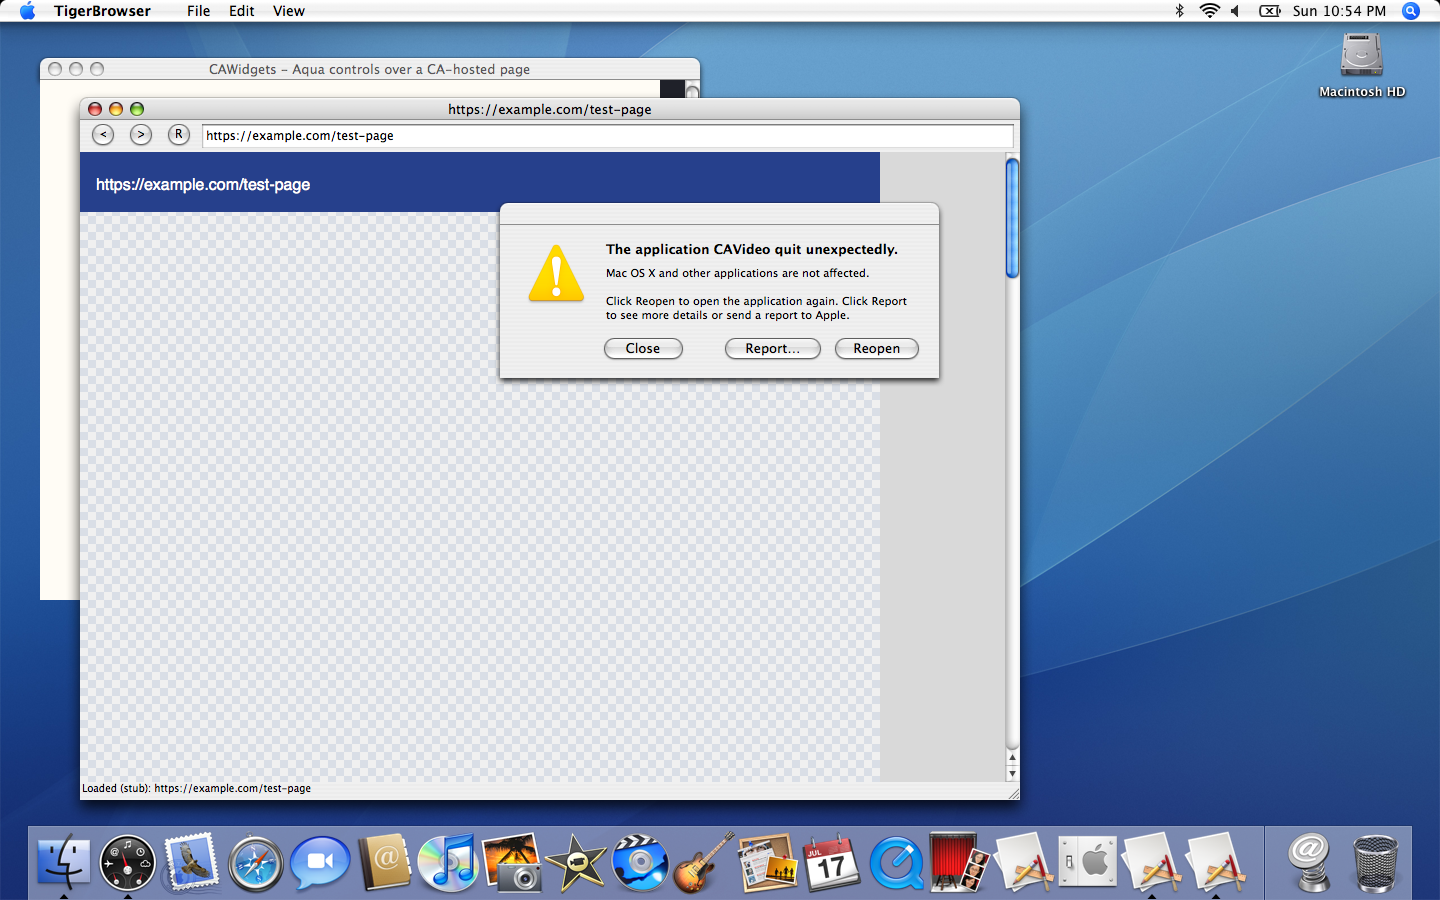
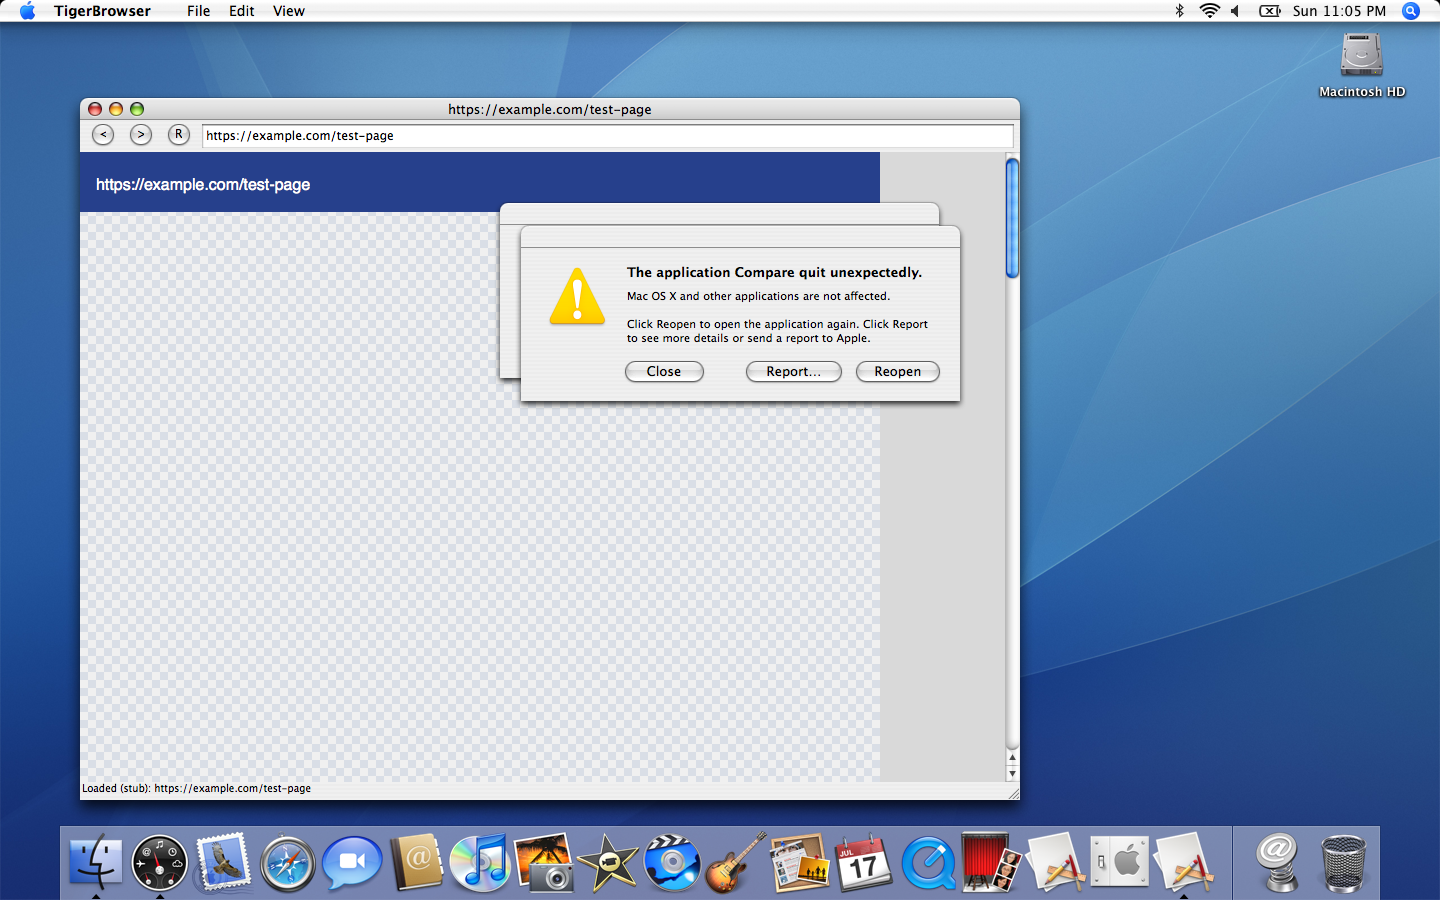
TigerBrowser: implement the two-tier EditorState answer per textinput-plan.md §3a
Replaces the single pending/applied-with-a-delay cache with the two-tier
design textinput-plan.md §3a recommends: a BOOL _inInterpretKeyEvents set
for exactly the duration of -interpretKeyEvents: inside -keyDown:. The six
NSTextInput query methods (hasMarkedText/markedRange/selectedRange/
firstRectForCharacterRange:/attributedSubstringFromRange:/
characterIndexForPoint:, via shared -tiCurrent{SelectedRange,MarkedRange,
DocumentText} accessors) read "pending" (zero staleness -- same call stack,
nothing dispatched yet) while that flag is set, and "applied" (the last
state confirmed by the simulated 50ms round trip) otherwise.

Also added -simulateNonKeyboardSelectionChange:, a repeating timer during
the self-test that moves _appliedSelectedRange directly with no keydown
involved -- standing in for the real UI process's proactive EditorState
push landing for reasons that have nothing to do with typing (an in-page
focus jump being §3a's example), so "applied" has a refresh path
independent of the keydown round trip the spike otherwise only models.

Extended the self-test with a non-aborting tiAssert() (logs PASS/FAIL,
doesn't abort -- a crash on the first failure would hide every assertion
after it) covering the three behaviors §3a's design implies:
1. A query from inside insertText: sees the just-inserted character
   (asserted in -insertText: itself, right after mutating pending).
2. A query between -interpretKeyEvents: returning and the round trip
[…]

Changed region(s): [[0.0, 0.9022, 1.0, 1.0], [0.0, 0.0622, 0.5, 0.6844], [0.3438, 0.2489, 0.6562, 0.4667]]

diff --git a/spike/TigerBrowser/TigerBrowser.m b/spike/TigerBrowser/TigerBrowser.m
@@ -77,6 +77,14 @@ static void tiLog(NSString *fmt, ...)
     [msg release];
 }
 
+// Logs PASS/FAIL rather than aborting -- this is a self-test run to produce
+// a complete diagnostic transcript, not a unit test suite; a crash on the
+// first failure would hide every assertion after it.
+static void tiAssert(BOOL condition, NSString *description)
+{
+    tiLog(@"  ASSERT %@: %@", condition ? @"PASS" : @"FAIL", description);
+}
+
 // Standard US ANSI virtual keycodes (HIToolbox Events.h's kVK_* constants,
 // not available in the AppKit-only headers this app imports, so spelled out
 // locally). Used only by the synthetic self-test driver below.
@@ -241,9 +249,17 @@ static void paintStubPage(CGContextRef ctx, CGRect dirty, NSString *urlText)
     NSRange _pendingMarkedRange;
     NSMutableArray *_keyDownCommandLog;   // this keydown's command names, for the summary line
     BOOL _keyDownHadPendingMutation;
+    // Two-tier answer per logs/textinput-plan.md §3a: while this is set (the
+    // duration of the current -interpretKeyEvents: call, and only that), the
+    // four sync query methods answer from "pending" (zero staleness, same
+    // call stack, nothing has been dispatched yet); otherwise from "applied"
+    // (the last state confirmed by the simulated content-process round
+    // trip -- possibly stale, but that staleness is unavoidable and bounded).
+    BOOL _inInterpretKeyEvents;
     NSTimer *_selfTestTimer;
     NSArray *_selfTestScript;
     unsigned _selfTestIndex;
+    NSTimer *_focusJumpTimer;
 }
 - (void)setScroller:(NSScroller *)s;
 - (void)setURLText:(NSString *)text;
@@ -271,6 +287,7 @@ static void paintStubPage(CGContextRef ctx, CGRect dirty, NSString *urlText)
 {
     [_timer invalidate];
     [_selfTestTimer invalidate];
+    [_focusJumpTimer invalidate];
     [_renderer release];
     [_viewport release];
     [_page release];
@@ -498,12 +515,26 @@ static void paintStubPage(CGContextRef ctx, CGRect dirty, NSString *urlText)
             (unsigned long)[_appliedDocumentText length], _appliedDocumentText];
 }
 
+// Two-tier answer (logs/textinput-plan.md §3a): while _inInterpretKeyEvents
+// is set, every query reads "pending" -- same call stack, nothing has been
+// dispatched to a (real, eventual) content process yet, so this is exactly
+// accurate, not just less-stale. Once -interpretKeyEvents: has returned,
+// queries read "applied" -- the last state actually confirmed by the
+// simulated round trip, which can be stale by up to one round trip, exactly
+// like the real async-IPC case this models.
+- (NSRange)tiCurrentSelectedRange { return _inInterpretKeyEvents ? _pendingSelectedRange : _appliedSelectedRange; }
+- (NSRange)tiCurrentMarkedRange { return _inInterpretKeyEvents ? _pendingMarkedRange : _appliedMarkedRange; }
+- (NSMutableString *)tiCurrentDocumentText { return _inInterpretKeyEvents ? _pendingDocumentText : _appliedDocumentText; }
+- (NSString *)tiCurrentTierName { return _inInterpretKeyEvents ? @"pending" : @"applied"; }
+
 - (void)keyDown:(NSEvent *)event
 {
     tiLog(@"--");
     tiLog(@"keyDown: keyCode=%u characters='%@' charactersIgnoringModifiers='%@' modifierFlags=0x%lx",
           (unsigned)[event keyCode], [event characters], [event charactersIgnoringModifiers],
           (unsigned long)[event modifierFlags]);
+
+    NSRange appliedBeforeThisKeyDown = _appliedSelectedRange;
 
     _keyDownCommandLog = [[NSMutableArray alloc] init];
     _keyDownHadPendingMutation = NO;
@@ -515,13 +546,30 @@ static void paintStubPage(CGContextRef ctx, CGRect dirty, NSString *urlText)
     _pendingSelectedRange = _appliedSelectedRange;
     _pendingMarkedRange = _appliedMarkedRange;
 
+    _inInterpretKeyEvents = YES;
     [self interpretKeyEvents:[NSArray arrayWithObject:event]];
+    _inInterpretKeyEvents = NO;
 
     tiLog(@"keyDown: interpretKeyEvents: produced %lu command(s): [%@]",
           (unsigned long)[_keyDownCommandLog count],
           [_keyDownCommandLog componentsJoinedByString:@", "]);
     [_keyDownCommandLog release];
     _keyDownCommandLog = nil;
+
+    // §3a point 3: a query made right after -interpretKeyEvents: returns, but
+    // before the simulated round trip lands, must (a) answer instantly --
+    // it's a local read, never blocking IPC -- and (b) see the OLD applied
+    // state, not the pending mutation this keydown just made.
+    NSDate *queryStart = [NSDate date];
+    NSRange queryResult = [self selectedRange];
+    double queryElapsedMs = -[queryStart timeIntervalSinceNow] * 1000.0;
+    tiAssert(queryElapsedMs < 1.0,
+              [NSString stringWithFormat:@"post-keyDown query never blocks (%.3fms < 1ms)", queryElapsedMs]);
+    if (_keyDownHadPendingMutation) {
+        tiAssert(NSEqualRanges(queryResult, appliedBeforeThisKeyDown),
+                  [NSString stringWithFormat:@"post-keyDown query sees OLD applied state %@, not pending %@",
+                          NSStringFromRange(queryResult), NSStringFromRange(_pendingSelectedRange)]);
+    }
 
     if (_keyDownHadPendingMutation) {
         tiLog(@"  scheduling simulated content-process round trip (+50ms); synchronous queries"
@@ -535,10 +583,16 @@ static void paintStubPage(CGContextRef ctx, CGRect dirty, NSString *urlText)
 // keydown collected.
 - (void)applyPendingEditorState
 {
+    NSRange pendingSnapshot = _pendingSelectedRange;
     [_appliedDocumentText setString:_pendingDocumentText];
     _appliedSelectedRange = _pendingSelectedRange;
     _appliedMarkedRange = _pendingMarkedRange;
     tiLog(@"  simulated content-process reply landed: %@", [self tiDescribeApplied]);
+
+    // §3a point 2: a query issued once the round trip has landed must now see
+    // the applied (just-updated) state.
+    tiAssert(NSEqualRanges([self selectedRange], pendingSnapshot),
+              @"post-round-trip query sees the newly applied state");
 }
 
 - (void)insertText:(id)aString
@@ -556,6 +610,17 @@ static void paintStubPage(CGContextRef ctx, CGRect dirty, NSString *urlText)
     _pendingSelectedRange = NSMakeRange(replace.location + [plain length], 0);
     _pendingMarkedRange = NSMakeRange(NSNotFound, 0);
     _keyDownHadPendingMutation = YES;
+
+    // §3a point 1: a query issued from inside this very call (still within
+    // -interpretKeyEvents:, e.g. an IME verifying its own insertText: before
+    // returning) must see the just-inserted character, not the old applied
+    // state -- zero staleness, because nothing has been dispatched yet.
+    if ([plain length] > 0) {
+        NSRange q = [self selectedRange];
+        tiAssert(NSEqualRanges(q, _pendingSelectedRange),
+                  [NSString stringWithFormat:@"in-callback query sees just-inserted %@ (selectedRange -> %@)",
+                          desc, NSStringFromRange(q)]);
+    }
 }
 
 - (void)doCommandBySelector:(SEL)aSelector
@@ -594,8 +659,8 @@ static void paintStubPage(CGContextRef ctx, CGRect dirty, NSString *urlText)
 
 - (BOOL)hasMarkedText
 {
-    BOOL has = _appliedMarkedRange.location != NSNotFound;
-    tiLog(@"  hasMarkedText -> %@ (from cached/applied EditorState)", has ? @"YES" : @"NO");
+    BOOL has = [self tiCurrentMarkedRange].location != NSNotFound;
+    tiLog(@"  hasMarkedText -> %@ (from %@ tier)", has ? @"YES" : @"NO", [self tiCurrentTierName]);
     return has;
 }
 
@@ -606,13 +671,15 @@ static void paintStubPage(CGContextRef ctx, CGRect dirty, NSString *urlText)
 
 - (NSAttributedString *)attributedSubstringFromRange:(NSRange)theRange
 {
-    tiLog(@"  attributedSubstringFromRange:%@ (from cached/applied EditorState, doc len %lu)",
-          NSStringFromRange(theRange), (unsigned long)[_appliedDocumentText length]);
-    if (theRange.location == NSNotFound || NSMaxRange(theRange) > [_appliedDocumentText length])
+    NSMutableString *doc = [self tiCurrentDocumentText];
+    NSRange marked = [self tiCurrentMarkedRange];
+    tiLog(@"  attributedSubstringFromRange:%@ (from %@ tier, doc len %lu)",
+          NSStringFromRange(theRange), [self tiCurrentTierName], (unsigned long)[doc length]);
+    if (theRange.location == NSNotFound || NSMaxRange(theRange) > [doc length])
         return nil;
-    NSString *sub = [_appliedDocumentText substringWithRange:theRange];
+    NSString *sub = [doc substringWithRange:theRange];
     NSMutableAttributedString *attr = [[[NSMutableAttributedString alloc] initWithString:sub] autorelease];
-    NSRange markedIntersection = NSIntersectionRange(theRange, _appliedMarkedRange);
+    NSRange markedIntersection = NSIntersectionRange(theRange, marked);
     if (markedIntersection.length > 0) {
         NSRange local = NSMakeRange(markedIntersection.location - theRange.location, markedIntersection.length);
         [attr addAttribute:NSUnderlineStyleAttributeName value:[NSNumber numberWithInt:1] range:local];
@@ -622,15 +689,17 @@ static void paintStubPage(CGContextRef ctx, CGRect dirty, NSString *urlText)
 
 - (NSRange)markedRange
 {
-    tiLog(@"  markedRange -> %@ (from cached/applied EditorState)",
-          _appliedMarkedRange.location == NSNotFound ? @"{NSNotFound,0}" : NSStringFromRange(_appliedMarkedRange));
-    return _appliedMarkedRange;
+    NSRange marked = [self tiCurrentMarkedRange];
+    tiLog(@"  markedRange -> %@ (from %@ tier)",
+          marked.location == NSNotFound ? @"{NSNotFound,0}" : NSStringFromRange(marked), [self tiCurrentTierName]);
+    return marked;
 }
 
 - (NSRange)selectedRange
 {
-    tiLog(@"  selectedRange -> %@ (from cached/applied EditorState)", NSStringFromRange(_appliedSelectedRange));
-    return _appliedSelectedRange;
+    NSRange sel = [self tiCurrentSelectedRange];
+    tiLog(@"  selectedRange -> %@ (from %@ tier)", NSStringFromRange(sel), [self tiCurrentTierName]);
+    return sel;
 }
 
 - (NSRect)firstRectForCharacterRange:(NSRange)theRange
@@ -643,17 +712,18 @@ static void paintStubPage(CGContextRef ctx, CGRect dirty, NSString *urlText)
     NSPoint screenPt = [[self window] convertBaseToScreen:winPt];
     NSRect rect = NSMakeRect(screenPt.x, screenPt.y, 1, 18);
     tiLog(@"  firstRectForCharacterRange:%@ -> {%.0f,%.0f,%.0f,%.0f} (fixed page-position stub,"
-          @" from cached/applied EditorState -- a real cache miss here is visibly wrong, not just"
-          @" logically stale, per the plan's §3 note)",
-          NSStringFromRange(theRange), rect.origin.x, rect.origin.y, rect.size.width, rect.size.height);
+          @" from %@ tier -- a real cache miss here is visibly wrong, not just logically stale,"
+          @" per the plan's §3 note)",
+          NSStringFromRange(theRange), rect.origin.x, rect.origin.y, rect.size.width, rect.size.height,
+          [self tiCurrentTierName]);
     return rect;
 }
 
 - (unsigned int)characterIndexForPoint:(NSPoint)thePoint
 {
-    unsigned int idx = (unsigned int)[_appliedDocumentText length];
-    tiLog(@"  characterIndexForPoint:{%.0f,%.0f} -> %u (stub: always end-of-document)",
-          thePoint.x, thePoint.y, idx);
+    unsigned int idx = (unsigned int)[[self tiCurrentDocumentText] length];
+    tiLog(@"  characterIndexForPoint:{%.0f,%.0f} -> %u (stub: always end-of-document, from %@ tier)",
+          thePoint.x, thePoint.y, idx, [self tiCurrentTierName]);
     return idx;
 }
 
@@ -723,6 +793,24 @@ static void paintStubPage(CGContextRef ctx, CGRect dirty, NSString *urlText)
     _selfTestTimer = [[NSTimer scheduledTimerWithTimeInterval:0.2 target:self
                                                       selector:@selector(fireNextSelfTestEvent:)
                                                       userInfo:nil repeats:YES] retain];
+
+    // §3a point 3 (the "applied" refresh path): a selection change with no
+    // keyboard involvement at all -- an in-page focus jump is the real-world
+    // example -- lands in "applied" directly, independent of any keydown
+    // round trip. Runs throughout the script so its log lines interleave
+    // with the keydown-driven ones, same as they would in practice.
+    _focusJumpTimer = [[NSTimer scheduledTimerWithTimeInterval:0.6 target:self
+                                                       selector:@selector(simulateNonKeyboardSelectionChange:)
+                                                       userInfo:nil repeats:YES] retain];
+}
+
+- (void)simulateNonKeyboardSelectionChange:(NSTimer *)timer
+{
+    unsigned long len = [_appliedDocumentText length];
+    unsigned long newLoc = (_appliedSelectedRange.location == 0 && len > 0) ? len : 0;
+    _appliedSelectedRange = NSMakeRange(newLoc, 0);
+    tiLog(@"  simulated non-keyboard selection change (e.g. in-page focus jump, no keydown"
+          @" involved): applied selectedRange -> %@", NSStringFromRange(_appliedSelectedRange));
 }
 
 - (void)fireNextSelfTestEvent:(NSTimer *)timer
@@ -731,6 +819,9 @@ static void paintStubPage(CGContextRef ctx, CGRect dirty, NSString *urlText)
         [_selfTestTimer invalidate];
         [_selfTestTimer release];
         _selfTestTimer = nil;
+        [_focusJumpTimer invalidate];
+        [_focusJumpTimer release];
+        _focusJumpTimer = nil;
         // Edit-menu commands route to the same log via the responder chain
         // (menu items are target-nil; calling the actions directly here is
         // equivalent to what AppKit does when a keyEquivalent/menu click

diff --git a/spike/TigerBrowser/README.md b/spike/TigerBrowser/README.md
@@ -172,20 +172,44 @@ block-buffered, which silently dropped log lines in an earlier spike (the
 scrolling section above); a dedicated line-buffered file sidesteps that
 entirely.
 
-**EditorState cache, modeling the plan's §3 flagged design problem.**
-`TigerPageView` keeps two copies of a tiny fake document (`selectedRange`,
-`markedRange`, a document string): `_pending*` (what this keydown's
-`insertText:`/`setMarkedText:`/`unmarkText` calls have produced so far) and
-`_applied*` (what the four synchronous query methods —
-`hasMarkedText`/`markedRange`/`selectedRange`/`firstRectForCharacterRange:`
-— actually answer from). `_pending*` only overwrites `_applied*` after a
-`performSelector:withObject:afterDelay:0.05` — a deliberately simulated
-content-process IPC round trip. `doCommandBySelector:` deliberately does
-**not** mutate either copy (per the task: "record... do not execute" — the
-real content process's `WebCore::Editor` would own that). This reproduces,
-in miniature, the exact staleness the plan's §3 identifies as its single
-highest-risk finding: a query made before the simulated round trip lands
-sees the pre-keystroke state, on purpose.
+**Two-tier EditorState answer, implementing the plan's §3a recommendation
+(2026-09-20 update, superseding the single-cache description this section
+originally had).** `TigerPageView` keeps two copies of a tiny fake document
+(`selectedRange`, `markedRange`, a document string): `_pending*` (what the
+current keydown's `insertText:`/`setMarkedText:`/`unmarkText` calls have
+produced so far) and `_applied*` (the last state actually confirmed by the
+simulated content-process round trip). A `BOOL _inInterpretKeyEvents`, set
+for exactly the duration of `-interpretKeyEvents:` inside `-keyDown:`, picks
+which tier the six query methods (`hasMarkedText`/`markedRange`/
+`selectedRange`/`firstRectForCharacterRange:`/`attributedSubstringFromRange:`/
+`characterIndexForPoint:`, via the shared `-tiCurrentSelectedRange`/
+`-tiCurrentMarkedRange`/`-tiCurrentDocumentText` accessors) read from:
+
+- **While `_inInterpretKeyEvents` is set** (a query from inside the IME's own
+  `doCommandBySelector:`/`insertText:`/`setMarkedText:` callback, verifying
+  its own just-issued edit before returning): answers from **pending** —
+  same call stack, nothing has been dispatched anywhere yet, so this is
+  exactly accurate, not just "less stale."
+- **Otherwise**: answers from **applied** — the last state confirmed by the
+  simulated round trip (`performSelector:withObject:afterDelay:0.05`,
+  standing in for the real async IPC reply), possibly stale by up to one
+  round trip. `doCommandBySelector:` deliberately never mutates either tier
+  (per the task: "record... do not execute" — the real content process's
+  `WebCore::Editor` would own that).
+- **`applied` also updates independent of any keydown**:
+  `-simulateNonKeyboardSelectionChange:` (a repeating timer during the
+  self-test) moves `_appliedSelectedRange` directly, standing in for the
+  real UI process's proactive `EditorState` push landing for reasons that
+  have nothing to do with typing — an in-page focus jump being the
+  canonical example flagged in §3a.
+
+This is a materially different design from the plan's original single-cache
+sketch: the in-`interpretKeyEvents:` case needs no staleness tolerance at
+all, because on Tiger's fully synchronous `NSInputManager` model nothing is
+ever sent anywhere until `-interpretKeyEvents:` returns (§3a's finding that
+this makes Tiger's version of upstream's "IME polls immediately after its
+own edit" race trivially solvable, unlike upstream's own async
+`NSTextInputContext` model, which genuinely can't avoid it).
 
 **No way to type over ssh**, so `TigerPageView startTextInputSelfTest`
 (gated behind `TIGERBROWSER_TEXTINPUT_TEST=1`, fires 1.5s after the window
@@ -224,6 +248,41 @@ of this — they're IME-candidate-window-driven, not typing-driven, so a
 plain US-layout sequence with no live composition session never exercises
 them; consistent with the plan's §1b framing that they're an independent
 concern from the per-keystroke flow.
+
+### Two-tier answer: self-test assertions (2026-09-20 update)
+
+The self-test now asserts the three behaviors §3a's recommendation implies,
+via a non-aborting `tiAssert()` (logs PASS/FAIL, keeps running — a crash on
+the first failure would hide every assertion after it). One run: **30/30
+passed, 0 failed** (`textinput-selftest.log`):
+
+1. **A query issued from inside `insertText:` sees the just-inserted
+   character.** Asserted inside `-insertText:` itself, right after mutating
+   `_pending*`: calls `-selectedRange` and checks it matches the range
+   `_pending*` was just set to. Example from the log: inserting `'H'`
+   advances `selectedRange` from `{44,0}` to `{45,0}`, and the in-callback
+   query sees `{45,0}` immediately — not the old `{44,0}`.
+2. **A query issued between the keydown returning and the simulated round
+   trip landing sees the OLD applied state, and never blocks.** Asserted in
+   `-keyDown:` right after `-interpretKeyEvents:` returns (so
+   `_inInterpretKeyEvents` is back to `NO`, meaning this query reads
+   `applied`): the result must equal the applied state as it was *before*
+   this keydown, timed with `-timeIntervalSinceNow` and asserted `< 1ms`
+   (observed: consistently ~0.05ms — a local struct read, unsurprisingly
+   fast, but confirms the design never does a blocking wait here). Same
+   `'H'` example: right after the keydown returns, `selectedRange` still
+   reads `{44,0}` (the pre-keystroke value), not `{45,0}`.
+3. **A query issued after the simulated round trip lands sees the applied
+   state.** Asserted in `-applyPendingEditorState` right after copying
+   pending → applied: `selectedRange` now matches the just-applied value.
+   Same example: 50ms after the keydown, `selectedRange` reads `{45,0}`.
+
+The non-keyboard selection-change timer also fired throughout the run
+(`-simulateNonKeyboardSelectionChange:`, every 0.6s, logged as "simulated
+non-keyboard selection change (e.g. in-page focus jump, no keydown
+involved)"), confirming `applied` updates correctly outside the keydown path
+entirely, interleaved with the scripted typing in the log without disturbing
+any of the 30 assertions above.
 
 ### Tiger quirks and gotchas found
 
